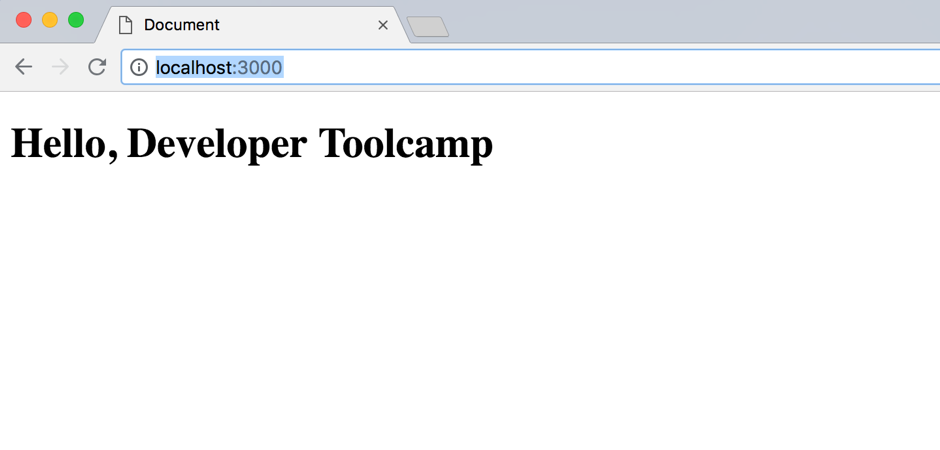
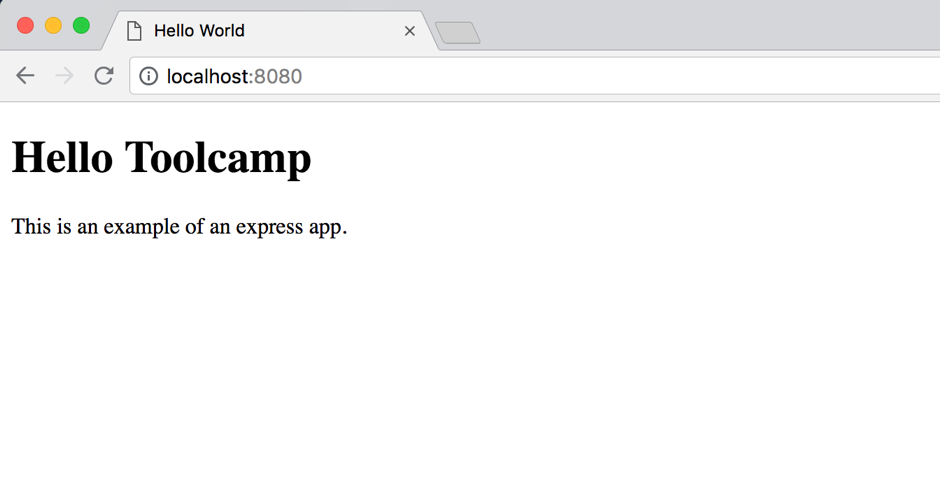
tweaks to the app

Changed region(s): [[0.0, 0.0, 1.0, 0.1867], [0.0, 0.28, 0.5245, 0.3733], [0.0, 0.4356, 0.3702, 0.4978]]

diff --git a/session_03_web_app.md b/session_03_web_app.md
@@ -40,10 +40,15 @@ v6.10.3
 <a name="setup"></a>
 ## Setting up the project files
 
-In the terminal, create a new blank file:
+1. In the terminal create a folder which will contain the public web files:
+```
+mkdir public
+```
+
+2. Create a new blank file in the folder created above:
 
 ```
-$ touch index.html
+$ touch public/index.html
 ```
 
 1. Open your IDE, *VS Code*.
@@ -130,9 +135,13 @@ The “^” character means that we are telling the project to use a version of 
 
 ```
 const express = require('express');
+const PORT = 8080;
 const app = express();
-app.use(express.static('public'))
-app.listen(3000, () => console.log('Example app listening on port 3000!'));
+
+app.use(express.static('public'));
+app.listen(PORT);
+
+console.log(`Application Server listening on port ${PORT} in your browser.`);
 ```
 
 <a name="start"></a>
@@ -150,7 +159,7 @@ app.listen(3000, () => console.log('Example app listening on port 3000!'));
 $ npm start
 ```
 
-Open a browser and type the address: http://localhost:3000
+Open a browser and type the address: http://localhost:8080
 
 You should see the content of the index.html file that we created earlier in the session.
 
